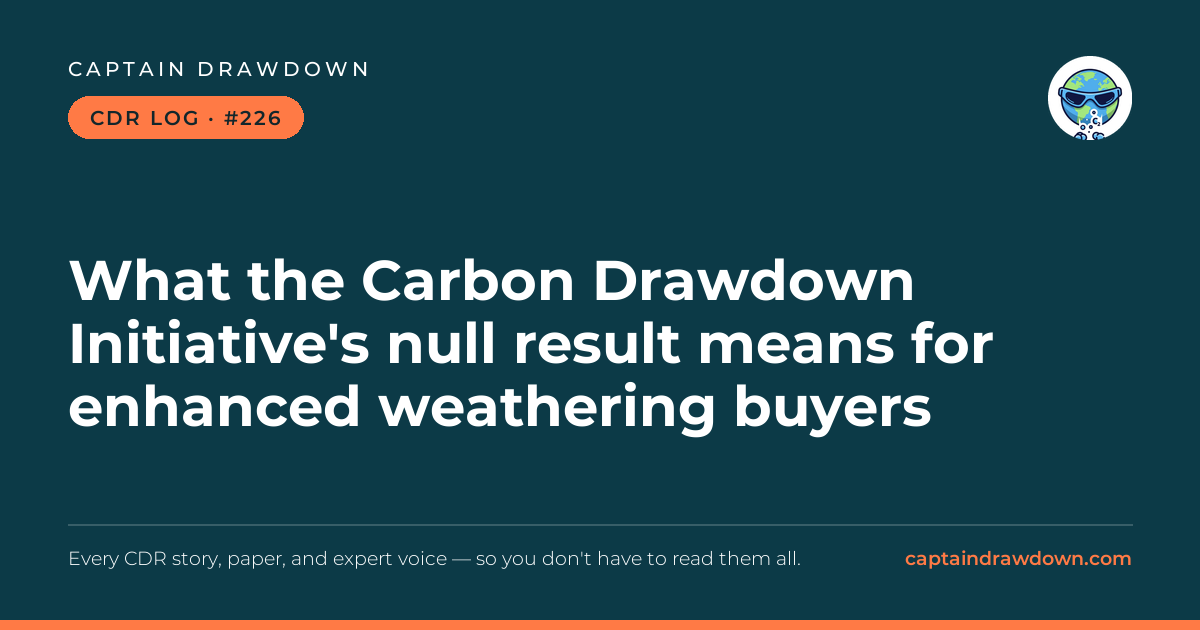
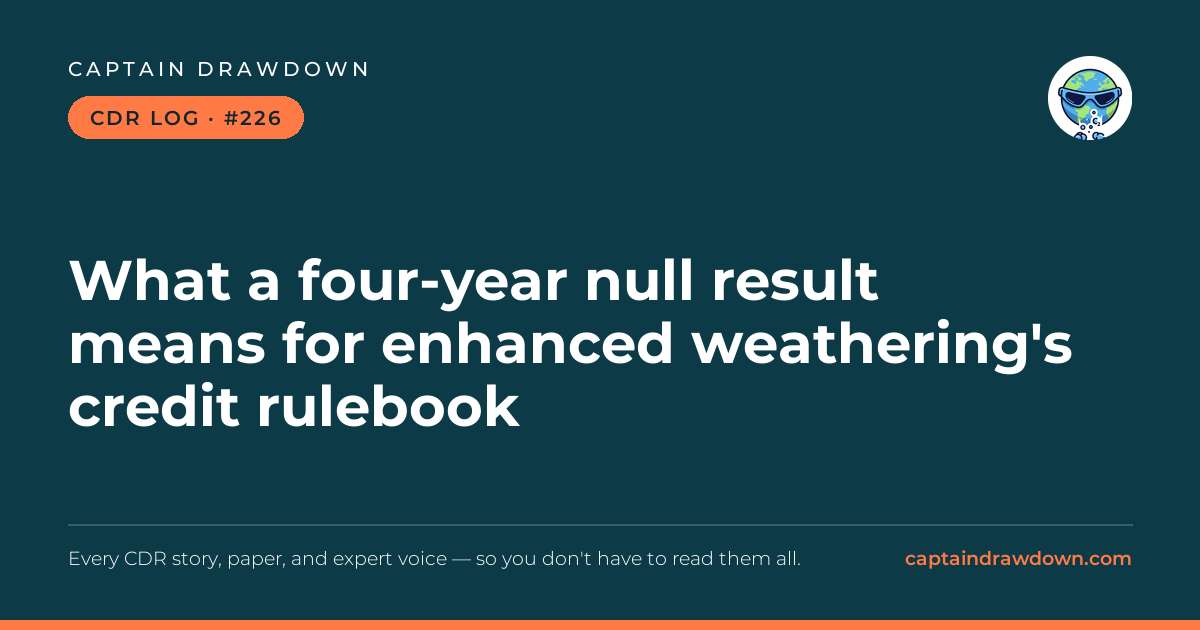
Planner 2026-08-14: +0 new, 0 replaced

Changed region(s): [[0.0617, 0.3921, 0.8942, 0.6937]]

diff --git a/content/posts/2026-08-14-captains-cdr-log-226.md b/content/posts/2026-08-14-captains-cdr-log-226.md
@@ -1,0 +1,69 @@
+---
+title: "Captain's CDR Log #226: What a four-year null result means for enhanced weathering's credit rulebook"
+date: 2026-08-14T10:27:36.669074+02:00
+slug: "captains-cdr-log-226"
+tags: ["synthesis", "captains-log"]
+author: "CaptainDrawdown"
+archetype: "briefing"
+angle: "critic"
+topic_signature: "Academic Buyers Drawdown ERW Enhanced Europe Experiment German Initiative Isometric Knops Lysimeter Pol Registries Standard Weathering XXL"
+cover:
+  image: "/images/posts/2026-08-14-log-226.png"
+  alt: "Captain's CDR Log #226: What a four-year null result means for enhanced weatheri"
+  hidden: false
+---
+
+*Captain Drawdown's daily logbook on every CDR story, paper, and expert voice — so you don't have to read them all.*
+
+---
+
+## Why this matters now
+
+The enhanced rock weathering (ERW) credit market is being built on model-based accounting while the longest-running independent field trial in Europe just returned a null result. Registries are certifying tonnes. Buyers are paying. And the underlying measurement question - can we actually detect the CO2 removal in the soil - is not settled. That gap between rulebook and field data is the whole story today.
+
+## What is enhanced rock weathering?
+
+ERW spreads crushed silicate rock, usually basalt, on farmland. As the rock reacts with rainwater and soil acids, it consumes CO2 and locks the carbon into dissolved bicarbonate that eventually reaches the ocean. In theory it is durable removal on the scale of tens of thousands of years. In practice, the removal has to be measured in soils that are noisy, variable, and slow to respond. If you are new to the pathway, I wrote a plain-language explainer here: What Is Enhanced Weathering?.
+
+## Who's involved?
+
+- **The Carbon Drawdown Initiative**, whose researcher Pol Knops ran the XXL Lysimeter Experiment cited below.
+- **Isometric**, the dominant durable-CDR registry, which just moved to Standard v2.0.
+- **Buyers and brokers** issuing ERW purchase agreements against protocols that lean heavily on modeled tonnes.
+- **Academic groups** publishing the field data that will either confirm or contradict the credit math.
+
+## What just happened?
+
+Four years in, twenty basalt-amended pots showed no more inorganic carbon removal than untreated controls. That is the headline from the [Carbon Drawdown Initiative's XXL Lysimeter Experiment](https://www.linkedin.com/feed/update/urn:li:share:7493651331526742016/), a 1,400-day trial run by Pol Knops. Yield co-benefits held up. The carbon claim, which is the entire basis for ERW credits, did not.
+
+As I put it on Bluesky, this is ([@captaindrawdown.bsky.social](https://bsky.app/profile/captaindrawdown.bsky.social/post/3mszeynp7fz2e)) "a stress test of ERW registry rulebooks," not just a science story. And it matters that Knops separated the two claims cleanly ([@captaindrawdown.bsky.social](https://bsky.app/profile/captaindrawdown.bsky.social/post/3mszeyqycjk2n)): "no detectable inorganic carbon signal above noise. Yield co-benefits held." ERW marketing routinely blurs those.
+
+Steel-manning the ERW side: one site is one site. A [Southeastern US field trial on CDRXIV](https://cdrxiv.org/preprint/413) reports strong basalt yield benefits and different soil chemistry may produce a detectable weathering signal where cool German soils did not. New peer-reviewed work from [Lei et al. via KITopen](https://doi.org/10.5445/ir/1000196136) argues part of the ERW carbon effect may run through mineral-associated organic carbon, not the inorganic pool most protocols measure. If true, current MRV (measurement, reporting, verification) is looking in the wrong place, which would mean protocols are undercounting, not overselling.
+
+Both can be true. The removal may be real and the current rulebook may still be wrong.
+
+## Open questions to track
+
+- Does [Isometric Standard v2.0](https://biochartoday.com/news/isometric-signs-tongao-greenchar-vastwing-energy-and-decarbon-tech-to-certify-first-chinese-carbon-removals/) require multi-year field measurement, or does it stay model-weighted?
+- Do other long-duration field trials publish confirmatory or contradictory signals in the next two quarters?
+- Will registries add an organic-carbon pathway to ERW accounting, as the KITopen work implies they should?
+- Does marine ERW, where [Huysmans et al. compared olivine, basalt and kimberlite feedstocks](https://doi.org/10.5281/zenodo.21808606), face the same measured-versus-modeled reckoning?
+
+## Further reading
+
+- [Carbon Drawdown Initiative's XXL Lysimeter results](https://www.linkedin.com/feed/update/urn:li:share:7493651331526742016/)
+- [Lei et al., mineral-associated organic carbon under ERW](https://doi.org/10.5445/ir/1000196136)
+- [Why Carbon Removal Needs More Than Trees](https://www.captaindrawdown.com/posts/why-carbon-removal-needs-more-than-trees/)
+
+If ERW is going to hold a serious share of durable-removal portfolios, the next protocol revision has to make field measurement mandatory and long. Anything less and the Knops result will keep being the reference point buyers cite when they ask for a discount.
+
+
+## Citations
+
+1. **LinkedIn** — [Carbon Drawdown Initiative's XXL Lysimeter Experiment](https://www.linkedin.com/feed/update/urn:li:share:7493651331526742016/) — *LinkedIn post*
+2. **Bluesky** — [@captaindrawdown.bsky.social](https://bsky.app/profile/captaindrawdown.bsky.social/post/3mszeynp7fz2e) — *Bluesky post*
+3. **Bluesky** — [@captaindrawdown.bsky.social](https://bsky.app/profile/captaindrawdown.bsky.social/post/3mszeyqycjk2n) — *Bluesky post*
+4. **Cdrxiv** — [Southeastern US field trial on CDRXIV](https://cdrxiv.org/preprint/413)
+5. **DOI-resolved paper** — [Lei et al. via KITopen](https://doi.org/10.5445/ir/1000196136)
+6. **Biochartoday** — [Isometric Standard v2.0](https://biochartoday.com/news/isometric-signs-tongao-greenchar-vastwing-energy-and-decarbon-tech-to-certify-first-chinese-carbon-removals/)
+7. **DOI-resolved paper** — [Huysmans et al. compared olivine, basalt and kimberlite feedstocks](https://doi.org/10.5281/zenodo.21808606)
